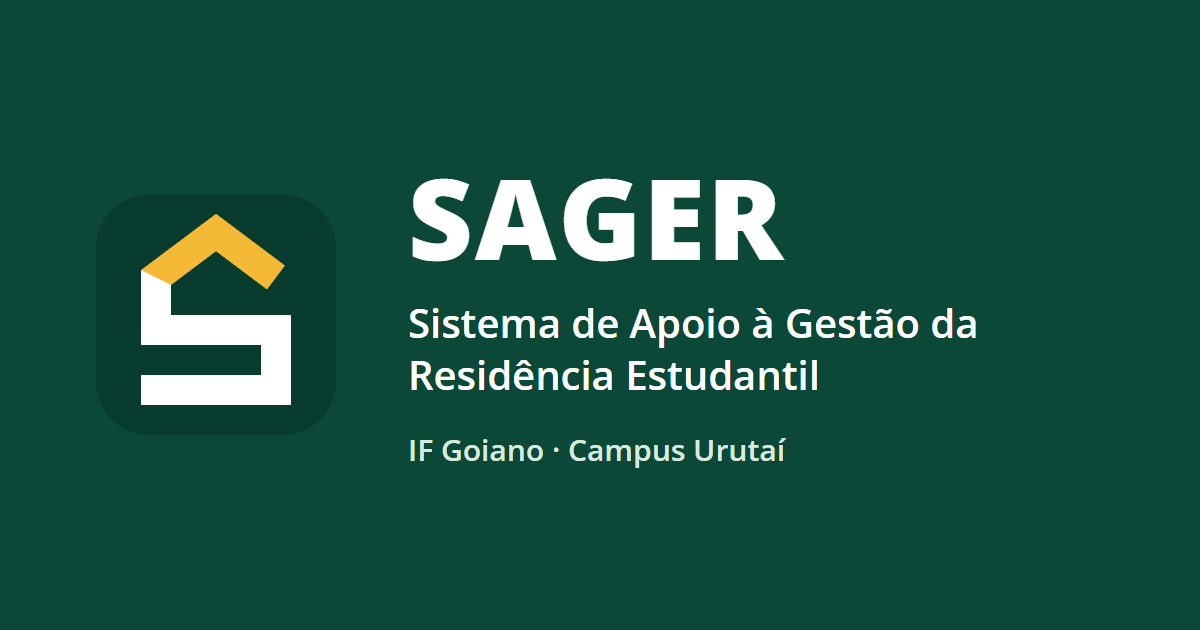
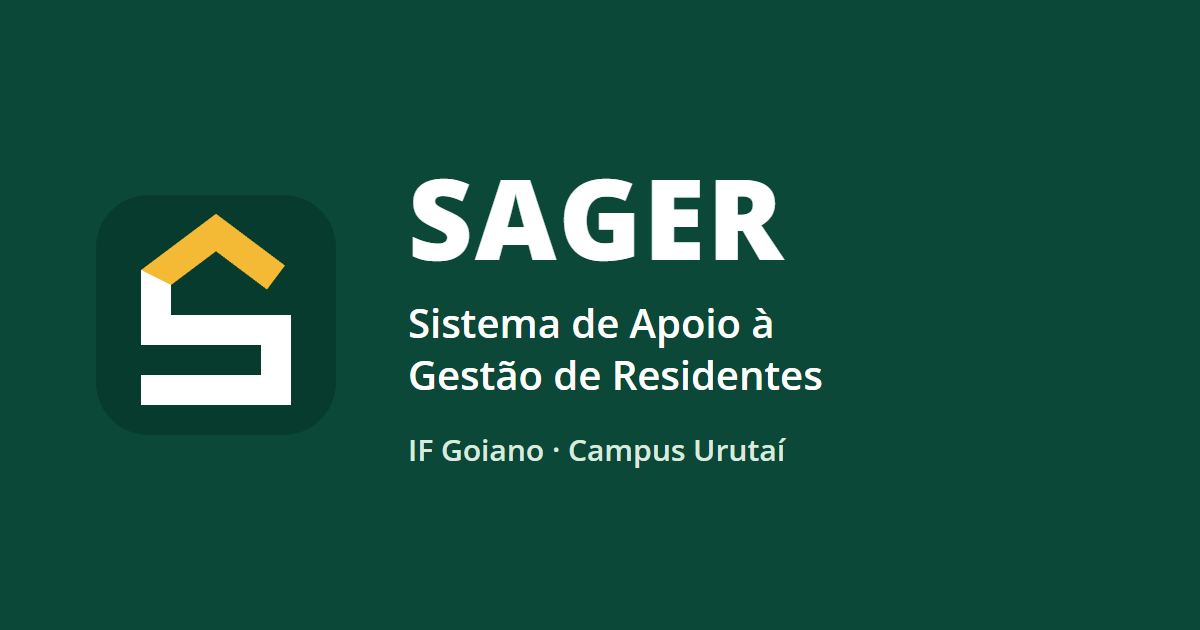
fix(frontend): usa o nome da monografia no cabeçalho, nas metas e na prévia de link

Changed region(s): [[0.3392, 0.573, 0.6783, 0.6333], [0.6475, 0.4825, 0.8325, 0.5429]]

diff --git a/frontend/src/index.html b/frontend/src/index.html
@@ -10,7 +10,7 @@
     <meta name="theme-color" content="#0c4837" />
     <meta
       name="description"
-      content="Sistema de Apoio à Gestão da Residência Estudantil do IF Goiano Campus Urutaí."
+      content="Sistema de Apoio à Gestão de Residentes do IF Goiano Campus Urutaí."
     />
     <link rel="icon" href="/favicon.ico" sizes="32x32" />
     <link rel="icon" href="/favicon.svg" type="image/svg+xml" />
@@ -23,7 +23,7 @@
     <meta property="og:title" content="SAGER · Residência Estudantil" />
     <meta
       property="og:description"
-      content="Sistema de Apoio à Gestão da Residência Estudantil do IF Goiano Campus Urutaí."
+      content="Sistema de Apoio à Gestão de Residentes do IF Goiano Campus Urutaí."
     />
     <!-- The gateway replaces this marker with the public origin; see its nginx template. -->
     <meta property="og:url" content="__SAGER_ORIGIN__/" />
@@ -33,7 +33,7 @@
     <meta property="og:image:height" content="630" />
     <meta
       property="og:image:alt"
-      content="SAGER: Sistema de Apoio à Gestão da Residência Estudantil, IF Goiano, Campus Urutaí."
+      content="SAGER: Sistema de Apoio à Gestão de Residentes, IF Goiano, Campus Urutaí."
     />
     <meta name="twitter:card" content="summary_large_image" />
   </head>

diff --git a/frontend/src/app/features/portal/portal.pages.ts b/frontend/src/app/features/portal/portal.pages.ts
@@ -20,7 +20,7 @@ import { LocalHomePage } from './local-home.page';
         <img src="/if-goiano-urutai.png" alt="Instituto Federal Goiano, Campus Urutaí" />
       </div>
       <div class="brand-product">
-        <strong>SAGER</strong><span>Sistema de Apoio à Gestão da<br />Residência Estudantil</span>
+        <strong>SAGER</strong><span>Sistema de Apoio à<br />Gestão de Residentes</span>
       </div>
       @if (!session.production) {
         <div class="demo-flag">

diff --git a/frontend/src/app/app.html b/frontend/src/app/app.html
@@ -19,7 +19,7 @@
       </div>
       <div class="brand-product">
         <strong>SAGER</strong>
-        <span>Sistema de Apoio à Gestão da<br />Residência Estudantil</span>
+        <span>Sistema de Apoio à<br />Gestão de Residentes</span>
       </div>
       @if (!session.production) {
         <div
